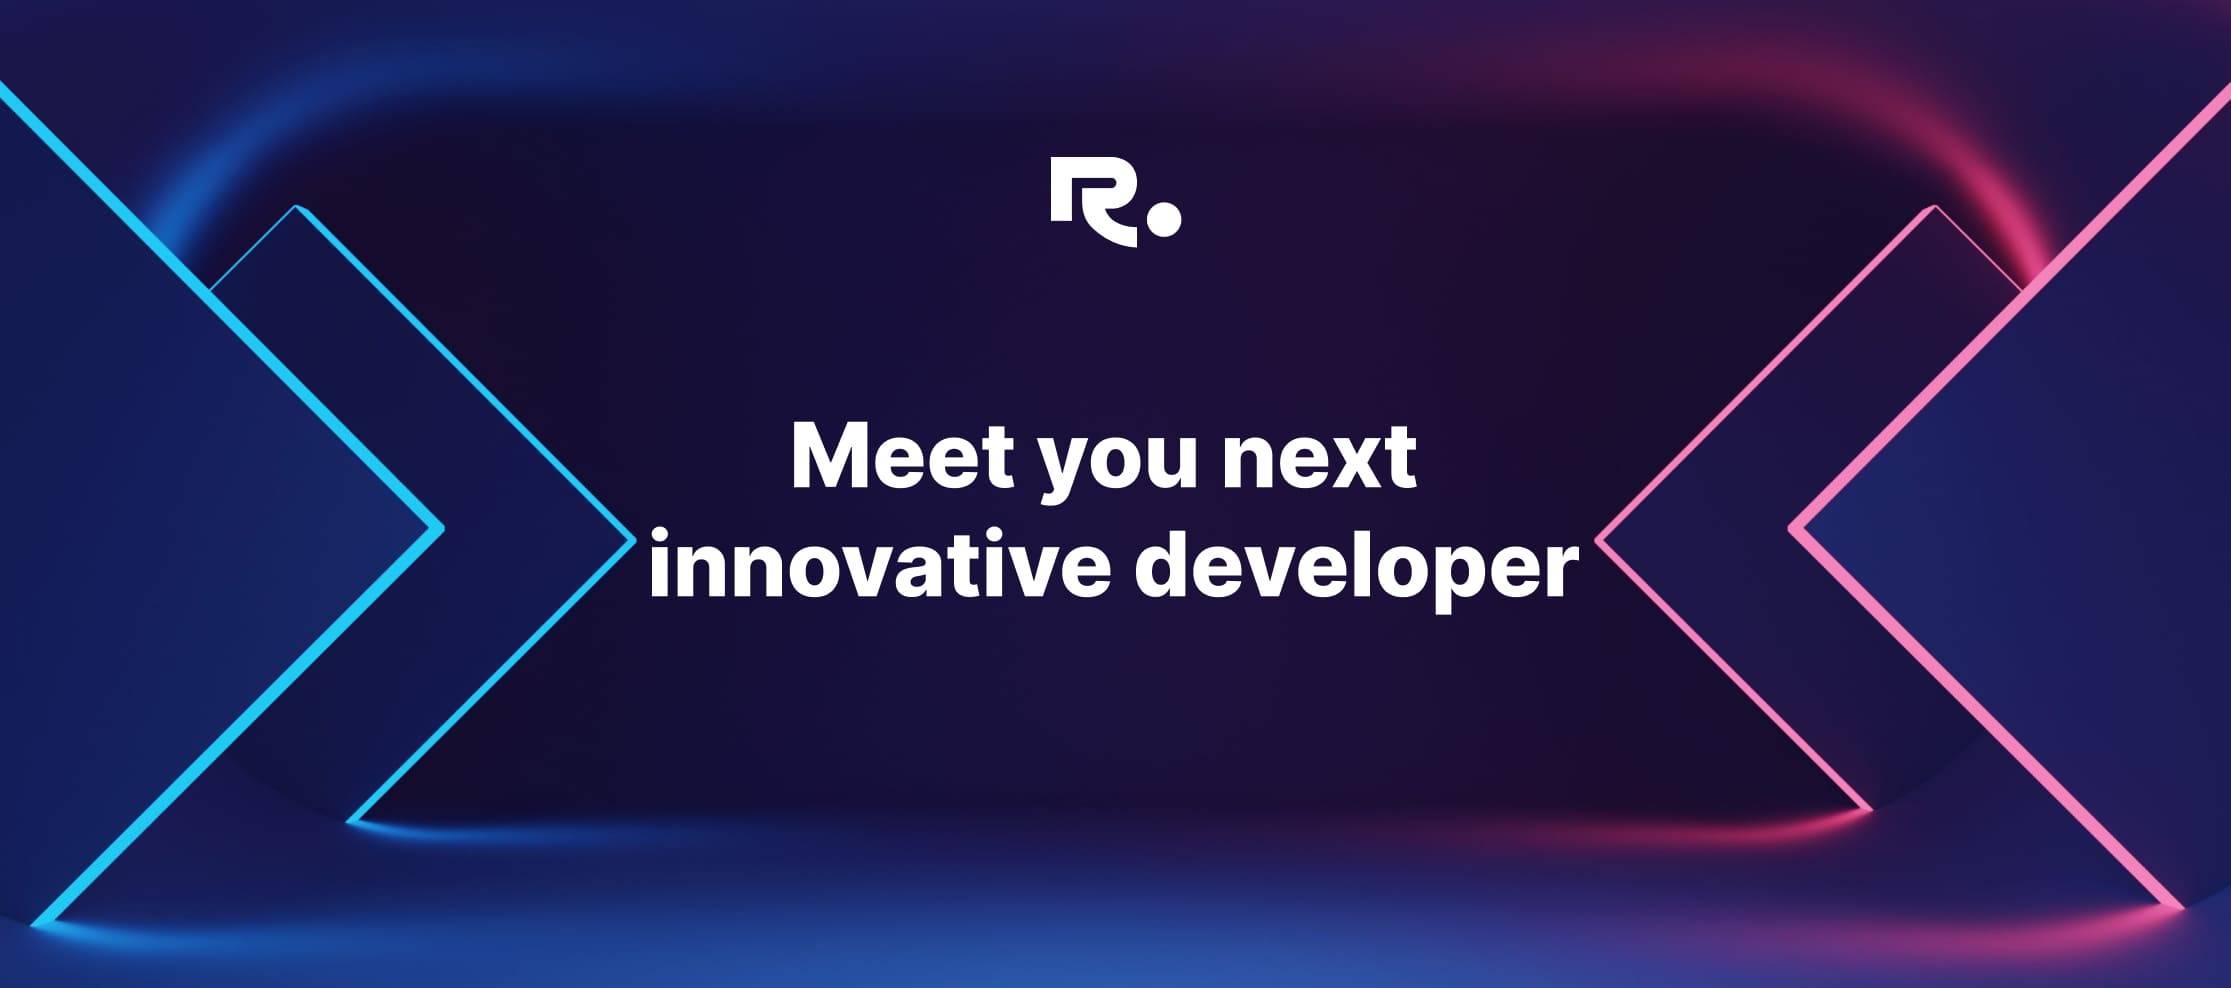
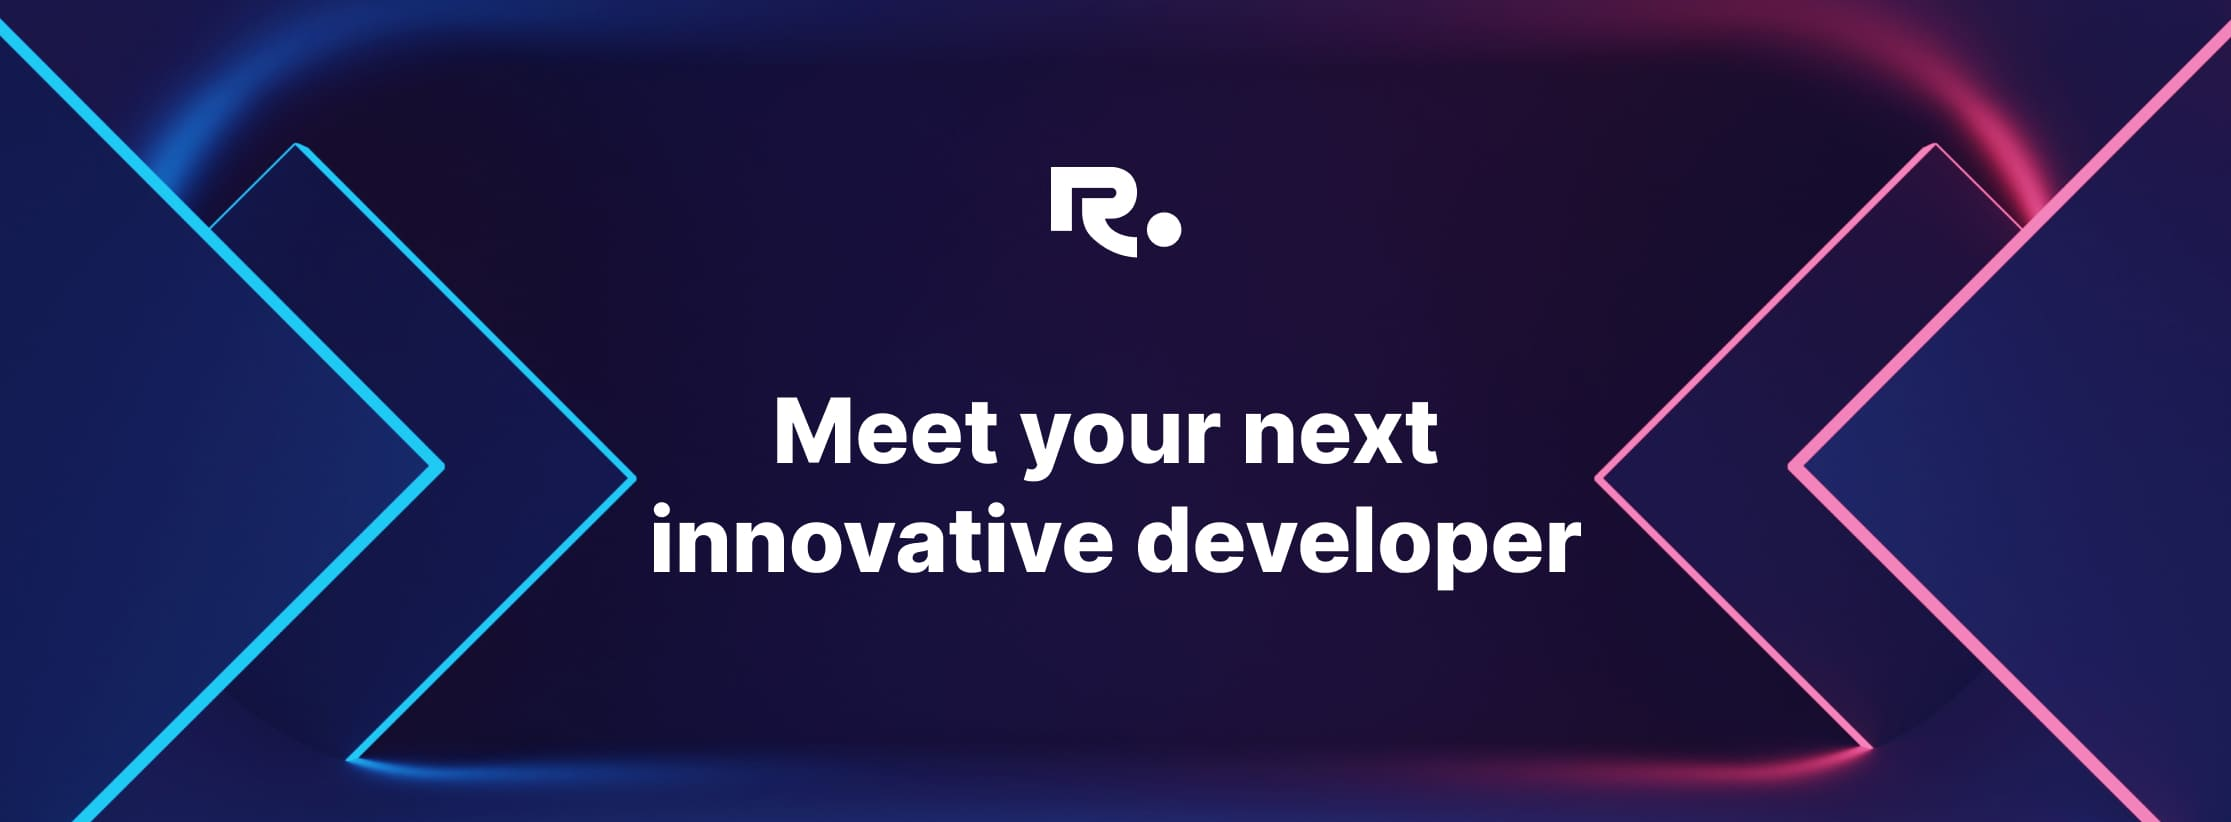
updated images

diff --git a/README.md b/README.md
@@ -1,4 +1,4 @@
-<img src='./images/github-banner2.jpg' />
+<img src='./images/github-banner.jpg' />
 <p align='left'>
 <a href = "mailto:reginaldojeba@gmail.com" target="_blank"><img alt="Gmail" src="https://img.shields.io/badge/Gmail-white?style=flat&logo=gmail&color=white"></a>
 <a href = "https://www.linkedin.com/in/reginald-ojeba" target="_blank"><img alt="LinkedIn" src="https://img.shields.io/badge/LinkedIn-white?style=flat&logo=linkedin&color=white&logoColor=blue"></a>
